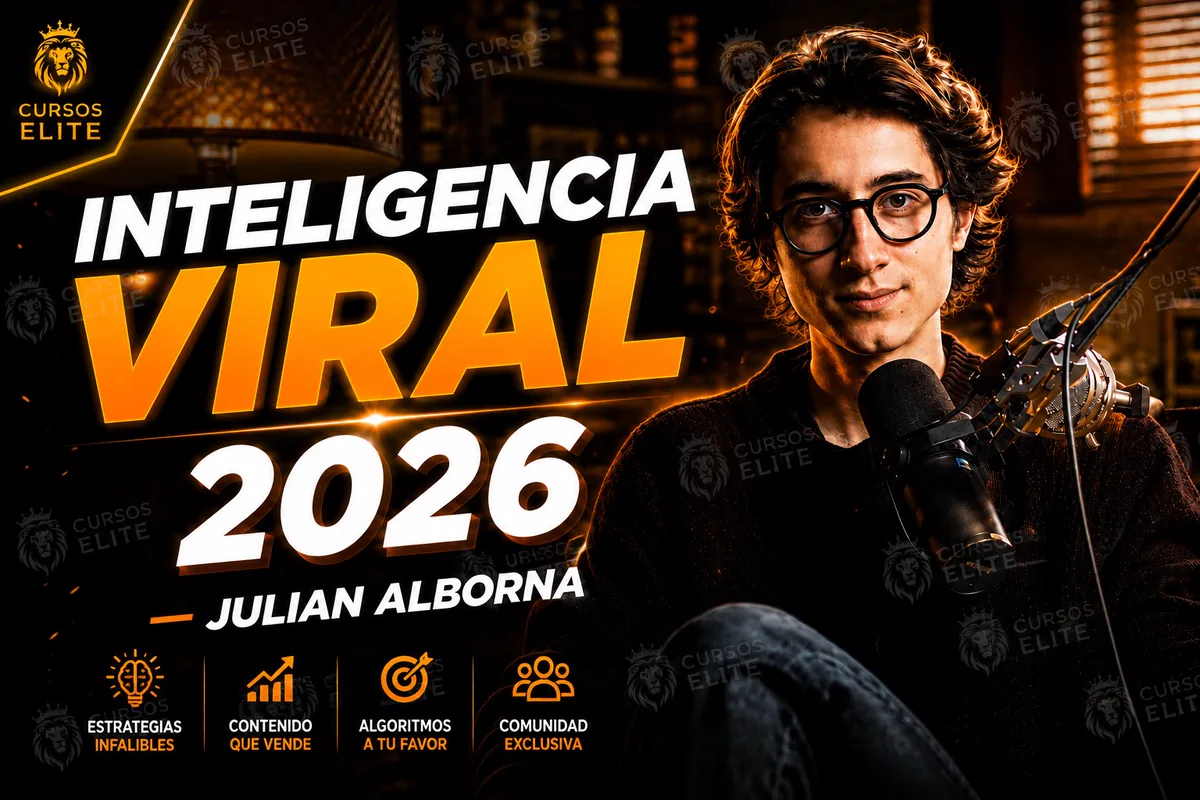
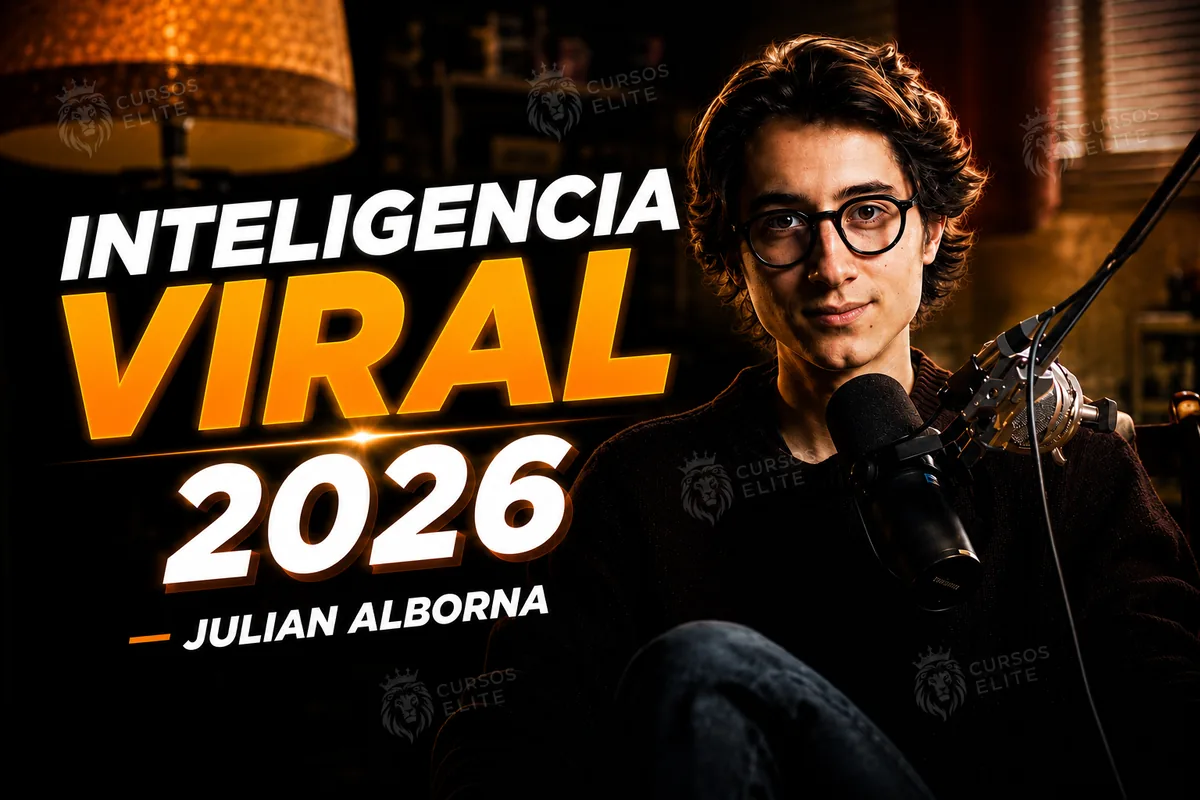
miniaturas: tapas sin marca de otro, y las portadas de clase que estaban corridas
Auditoria de TODAS las superficies con miniatura del portal (33 agentes, 13
hallazgos confirmados de 28). Cuatro cosas:

1) EL ESCUDO «CURSOS ELITE». La tapa que baja cover_image viene estampada con
   la marca de la plataforma de origen, y eso se ve en la grilla y viaja al
   link que se reparte a clientes. Medido: quien decide si trae marca de agua
   NO es el curso, es el BUCKET de la URL — las 81 filas que apuntan a
   media/courses vienen marcadas y las 49 de library/courses estan limpias.
   El bucket library tiene 141 objetos, o sea ~92 que ninguna fila referencia:
   ahi viven las gemelas limpias. Se cruzaron por IMAGEN (firma de 12x12 en
   gris tirando la esquina donde vive el escudo, porque comparar la imagen
   entera hace que el propio escudo separe a la marcada de su gemela) y se
   MIRARON una por una antes de aplicar. Siete reemplazadas: 100m-money-models,
   bigseo-academy, creator-club, inteligencia-viral-2026, manychat, programa-raio
   y ugc-sim.

   Honestidad sobre el alcance: el escudo NO lo introduje entero yo. Contadas
   las 24 tapas anteriores, 5 ya lo tenian (claude-ai-rodrigo-rojo,
   hackeando-la-edicion, master-marca-personal-5-0, social-funnel, ugc-sim). El
   commit anterior lo llevo de 5 a 15; esto lo baja a 8.

2) TRES CLASES MOSTRABAN LA PORTADA DE OTRA. En «Creativos UGC Realistas»,
   «Biblioteca de prompts» mostraba una placa que dice «Introduccion a las
   herramientas», «Quitar marca de agua» mostraba «La recomendacion actual» y
[…]

diff --git a/app/conocimientos/CursoReplica.tsx b/app/conocimientos/CursoReplica.tsx
@@ -29,6 +29,7 @@
  */
 
 import { useEffect, useMemo, useState } from 'react';
+import { Miniatura } from './Miniatura';
 import type { Clase, Curso, Recurso } from './curso';
 
 const FLECHA_IZQ = '←';
@@ -256,7 +257,7 @@ function Indice({ curso, modulos, onAbrir, onModulo }: {
     <>
       {primera && (
         <button type="button" className="ugc-hero" onClick={() => onAbrir(primera)}>
-          {primera.portadaClase && <img className="ugc-hero-img" src={primera.portadaClase} alt="" aria-hidden />}
+          {primera.portadaClase && <Miniatura className="ugc-hero-img" src={primera.portadaClase} />}
           <span className="ugc-hero-shade" aria-hidden />
           <span className="ugc-hero-body">
             <span className="ugc-hero-eyebrow">Empeza aca{primera.codigo ? ` ${'·'} ${primera.codigo}` : ''}</span>
@@ -270,7 +271,13 @@ function Indice({ curso, modulos, onAbrir, onModulo }: {
         {modulos.map((m) => (
           <button key={m.nombre} type="button" className="ugc-modcard" onClick={() => onModulo(m)}>
             <span className="ugc-modcard-cover">
-              <img src={m.portada} alt="" aria-hidden />
+              {/* ⚠ La portada del módulo se CONSTRUYE (`/cono-ugc/m${n}.webp`), no se
+                  comprueba. «Creativos Animados» sale con n=6 —sus clases no tienen
+                  código, así que el número cae al índice— y m6.webp nunca existió: era un
+                  404 en CADA carga del índice, dibujando el ícono de imagen rota. Con
+                  `Miniatura` la tarjeta se queda con el degradé y su número, que es lo
+                  que se ve cuando la tapa sí está. */}
+              <Miniatura src={m.portada} />
               <span className="shade" aria-hidden />
               <span className="ugc-modcard-n" aria-hidden>{m.n}</span>
             </span>
@@ -289,7 +296,7 @@ function TarjetaClase({ clase, onAbrir }: { clase: Clase; onAbrir: () => void })
   return (
     <button type="button" className="ugc-modcard" onClick={onAbrir}>
       <span className="ugc-modcard-cover">
-        {clase.portadaClase && <img src={clase.portadaClase} alt="" aria-hidden />}
+        {clase.portadaClase && <Miniatura src={clase.portadaClase} />}
         <span className="shade" aria-hidden />
         <span className="ugc-modcard-n" aria-hidden>{clase.codigo ?? clase.n}</span>
       </span>
@@ -401,18 +408,24 @@ function Leccion({ clase, curso, ir }: { clase: Clase; curso: Curso; ir: (v: Vis
           <span className="ugc-pill">{clase.grupo}{clase.codigo ? ` ${'·'} ${clase.codigo}` : ''}</span>
           <h1>{clase.titulo}</h1>
         </div>
-        <div className="ugc-vcard">
-          <div className="ugc-vframe" style={{ aspectRatio: '16 / 9', width: '100%' }}>
-            {clase.videoId ? (
-              <iframe src={`https://drive.google.com/file/d/${clase.videoId}/preview`}
-                allow="autoplay" title={clase.titulo}
-                style={{ width: '100%', height: '100%', border: 0, display: 'block' }} />
-            ) : clase.portadaClase ? (
-              <img src={clase.portadaClase} alt="" aria-hidden />
-            ) : null}
+        {/* Sin video Y sin portada NO se dibuja el marco. Antes salia igual: un rectangulo
+            16:9 negro con la barra debajo, o sea el hueco donde deberia haber un video —
+            para una clase que es solo documento (3 de 37: «Musica y efectos», «Agentes»,
+            «bienvenida») eso se lee como un reproductor roto, no como una clase de leer. */}
+        {(clase.videoId || clase.portadaClase) && (
+          <div className="ugc-vcard">
+            <div className="ugc-vframe" style={{ aspectRatio: '16 / 9', width: '100%' }}>
+              {clase.videoId ? (
+                <iframe src={`https://drive.google.com/file/d/${clase.videoId}/preview`}
+                  allow="autoplay" title={clase.titulo}
+                  style={{ width: '100%', height: '100%', border: 0, display: 'block' }} />
+              ) : (
+                <Miniatura src={clase.portadaClase!} />
+              )}
+            </div>
+            <div className="ugc-vbar"><span className="ugc-vbar-dur">{clase.cardDesc}</span></div>
           </div>
-          <div className="ugc-vbar"><span className="ugc-vbar-dur">{clase.cardDesc}</span></div>
-        </div>
+        )}
       </div>
 
       <div className="ugc-pcol">

diff --git a/app/conocimientos/CursoPortal.tsx b/app/conocimientos/CursoPortal.tsx
@@ -23,6 +23,7 @@ import CursoReplica from './CursoReplica';
 // tokens viven en `:root` de globals.css, que carga el layout raíz — o sea que
 // también funciona en /compartido/<token>, que va sin login.
 import { Dropdown } from '../components/Dropdown';
+import { Miniatura } from './Miniatura';
 
 export const DRIVE_PREVIEW = (id: string) => `https://drive.google.com/file/d/${id}/preview`;
 export const DRIVE_VIEW = (id: string) => `https://drive.google.com/file/d/${id}/view`;
@@ -122,12 +123,16 @@ export function DocContent({ text }: { text: string }) {
 // de una clase o un recurso sigue siendo la misma tarjeta sin imagen. Un componente
 // por caso los haría divergir en tres números, que es lo que ya pasó con `.mk-fila`.
 export function Card({ badge, nota, titulo, desc, onClick, ariaLabel, img }: { badge: string; nota?: string; titulo: string; desc: string; onClick: () => void; ariaLabel: string; img?: string }) {
+  // Si la miniatura da 404, la tarjeta vuelve a la variante SIN imagen — no se queda con
+  // el marco vacío. Por eso el estado vive acá y no adentro de `Miniatura`: el que decide
+  // el `className` es este componente.
+  const [sinImg, setSinImg] = useState(false);
+  const conImg = !!img && !sinImg;
   return (
-    <button type="button" className={img ? 'al-rescard al-rescard-img' : 'al-rescard'} onClick={onClick} aria-label={ariaLabel}>
-      {img && (
+    <button type="button" className={conImg ? 'al-rescard al-rescard-img' : 'al-rescard'} onClick={onClick} aria-label={ariaLabel}>
+      {conImg && (
         <span className="al-rescard-thumb">
-          {/* eslint-disable-next-line @next/next/no-img-element -- estática en public/, sin optimizar */}
-          <img src={img} alt="" loading="lazy" />
+          <Miniatura src={img!} onFalta={() => setSinImg(true)} />
         </span>
       )}
       <span className="al-rescard-top">
@@ -319,6 +324,10 @@ export function Selector({ cursos, enter, compartir, sinMarca, foco }: {
 // el destino es el listado de cursos, y un «Volver» pelado no lo dice — el dueño
 // leyó la pantalla como que no había salida, con el botón puesto.
 export function Hub({ curso, goClase, goRecurso, compartir, back, backLabel }: { curso: Curso; goClase: (n: number) => void; goRecurso: (slug: string) => void; compartir?: ReactNode; back?: () => void; backLabel?: string }) {
+  // Si la portada da 404 se saca el MARCO entero, no solo la imagen: `.al-portada` tiene
+  // borde, sombra y fondo propios, así que dejarlo vacío pinta una caja de 22 px de nada
+  // arriba del título.
+  const [portadaRota, setPortadaRota] = useState(false);
   // DOS niveles: módulo (`grupo`) → sección (`subgrupo`). Antes se agrupaba solo por
   // módulo y las 24 clases de uno caían en una lista plana, aunque la plataforma sí
   // las divide en secciones. El orden se toma del ORDEN DE LAS CLASES, no de un sort
@@ -353,10 +362,9 @@ export function Hub({ curso, goClase, goRecurso, compartir, back, backLabel }: {
           {compartir}
         </div>
         {/* La portada arriba de todo, antes del título: es la identidad del curso. */}
-        {curso.portada && (
+        {curso.portada && !portadaRota && (
           <div className="al-portada">
-            {/* eslint-disable-next-line @next/next/no-img-element -- estática en public/ */}
-            <img src={curso.portada} alt={`Portada de ${curso.titulo}`} />
+            <Miniatura src={curso.portada} alt={`Portada de ${curso.titulo}`} onFalta={() => setPortadaRota(true)} />
           </div>
         )}
         {/* El título del CURSO, no un rótulo genérico: «Tus recursos» estaba hardcodeado

diff --git a/app/conocimientos/curso-creativos-ugc-realistas.ts b/app/conocimientos/curso-creativos-ugc-realistas.ts
@@ -70,6 +70,7 @@ export const CURSO_CREATIVOS_UGC_REALISTAS: Curso = {
       hasDoc: true,
       docSlug: 'creativos-ugc-realistas__intro-herramientas',
       codigo: '1.3.1',
+      portadaClase: '/cono-ugc/1.3.1.webp',
       titulo: 'Introducción a las herramientas',
       cardDesc: '0:25 · Onboarding',
       videoId: '14SlTux-rPsXLsUhFM7Rm0YdclTX6tdb8',
@@ -87,6 +88,7 @@ export const CURSO_CREATIVOS_UGC_REALISTAS: Curso = {
       hasDoc: true,
       docSlug: 'creativos-ugc-realistas__recomendacion-actual',
       codigo: '1.3.2',
+      portadaClase: '/cono-ugc/1.3.2.webp',
       titulo: 'Recomendación / oferta actual',
       cardDesc: '2:46 · Onboarding',
       videoId: '1O8kwkLaGHvXMMPrLcFdSJ48a_YEpMKgL',
@@ -104,6 +106,7 @@ export const CURSO_CREATIVOS_UGC_REALISTAS: Curso = {
       hasDoc: true,
       docSlug: 'creativos-ugc-realistas__apimart',
       codigo: '1.3.3',
+      portadaClase: '/cono-ugc/1.3.3.webp',
       titulo: 'ApiMart',
       cardDesc: '0:44 · Onboarding',
       videoId: '1lxbge88OtwVDrVi0ZHk8sbDn1kJrFuh8',
@@ -121,6 +124,7 @@ export const CURSO_CREATIVOS_UGC_REALISTAS: Curso = {
       hasDoc: true,
       docSlug: 'creativos-ugc-realistas__kie',
       codigo: '1.3.4',
+      portadaClase: '/cono-ugc/1.3.4.webp',
       titulo: 'Kie',
       cardDesc: '0:29 · Onboarding',
       videoId: '1RYtATHJXagJVOFY9-Xbdqmv6WqA6XLNa',
@@ -138,6 +142,7 @@ export const CURSO_CREATIVOS_UGC_REALISTAS: Curso = {
       hasDoc: true,
       docSlug: 'creativos-ugc-realistas__edicion-capcut',
       codigo: '1.3.5',
+      portadaClase: '/cono-ugc/1.3.5.webp',
       titulo: 'CapCut · la edición',
       cardDesc: '0:26 · Onboarding',
       videoId: '1FeYN_rNf2xCCZeuZWMm3y6o2sMlY52I1',
@@ -207,7 +212,6 @@ export const CURSO_CREATIVOS_UGC_REALISTAS: Curso = {
       hasDoc: true,
       docSlug: 'creativos-ugc-realistas__agentes',
       codigo: '1.4.4',
-      portadaClase: '/cono-ugc/1.4.4.webp',
       titulo: 'Agentes',
       cardDesc: 'Onboarding',
       videoId: null,

diff --git a/app/conocimientos/Miniatura.tsx b/app/conocimientos/Miniatura.tsx
@@ -1,0 +1,42 @@
+'use client';
+
+import { useState } from 'react';
+
+/**
+ * Una miniatura que DESAPARECE si el archivo no está, en vez de dejar el ícono de imagen
+ * rota.
+ *
+ * ⚠ Existe porque en este portal «la imagen no está» y «la imagen está» se veían igual de
+ * bien desde el código: ninguno de los `<img>` tenía `onError`, así que un 404 no dejaba
+ * ni un log ni una pantalla distinta — dejaba un marco con el ícono roto del navegador y
+ * nada más. Medido el 24/08/2026: el módulo «Creativos Animados» pedía
+ * `/cono-ugc/m6.webp`, que nunca existió, en CADA carga del índice del curso.
+ *
+ * Es la misma regla que ya gobierna la portada del curso en `curso-a-portal.mjs` —«se
+ * declara SOLO si el archivo existe: un `portada` apuntando a un 404 pinta una tarjeta con
+ * la imagen rota, que es peor que una tarjeta sin imagen»— pero aplicada del lado del
+ * navegador, que es donde se puede saber si la URL contestó.
+ *
+ * `onFalta` avisa al que la dibuja, para que pueda sacar también el marco: una caja vacía
+ * con borde tampoco es lo que se quiere ver.
+ */
+export function Miniatura({ src, alt = '', className, onFalta }: {
+  src: string;
+  alt?: string;
+  className?: string;
+  onFalta?: () => void;
+}) {
+  const [rota, setRota] = useState(false);
+  if (rota) return null;
+  return (
+    // eslint-disable-next-line @next/next/no-img-element -- estática en public/ o miniatura de Drive; no pasa por el optimizador
+    <img
+      src={src}
+      alt={alt}
+      aria-hidden={alt ? undefined : true}
+      loading="lazy"
+      className={className}
+      onError={() => { setRota(true); onFalta?.(); }}
+    />
+  );
+}

diff --git a/public/cono-doc/ugc.css b/public/cono-doc/ugc.css
@@ -2532,3 +2532,10 @@ html:has(.ahdoc), body:has(.ahdoc) { overflow: hidden !important; height: 100% !
  * 150 px y rompe la fila. */
 .ahdoc .ugc .ugc-clip-drive, .ahdoc .ugc .ugc-media iframe { width: 100% !important; aspect-ratio: 9 / 16 !important; height: auto !important; border: 0; display: block; }
 .ahdoc .ugc .ugc-media { max-width: 220px !important; }
+/* La clase SIN video muestra su portada en el mismo marco, y el marco no la conocia.
+ * La regla del origen es `.ugc-vframe iframe, .ugc-vframe video` — sin `img`. Una clase
+ * sin video (`Agentes`) cae al <img> de CursoReplica y, sin posicionar ni escalar, la
+ * imagen se dibuja a su tamano natural (1280 px) y el `overflow: hidden` de .ugc-vcard
+ * la recorta: se ve un pedazo gigante de la esquina superior izquierda en vez de la
+ * portada. No es que falte la imagen — sobra tamano. */
+.ahdoc .ugc .ugc-vframe img { position: absolute !important; inset: 0 !important; width: 100% !important; height: 100% !important; object-fit: cover !important; display: block !important; }
